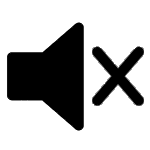
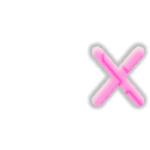
Updated Game Tile and Graphic, Updated Mute button and code to work more better. Also, Enemies have been removed from level1.

diff --git a/js/level1.js b/js/level1.js
@@ -1,5 +1,8 @@
 
 //declare a new state
+
+
+
 var Level1State = function(game) {
 };
 
@@ -7,21 +10,37 @@ var Level1State = function(game) {
  * Add game variables here
  *
  */
-
+var text;
+var graphics;
+var hsv;
+var timerEvents = [];
 
 /*
  * Create runs once only when Phaser first loads
  * create the game scene by adding objects to the stage
  */
+function create ()
+{
+    text = this.add.text(32, 32);
+
+    timerEvents.push(this.time.addEvent({ delay: 10000, loop: true }));
+
+    hsv = Phaser.Display.Color.HSVColorWheel();
+
+    graphics = this.add.graphics({ x: 240, y: 36 });
+}
 
 Level1State.prototype.create=function(){
+	// init the keys
+	escKey = game.input.keyboard.addKey(Phaser.Keyboard.ESC);
+	// background
 	this.background=game.add.sprite (0,0,"background");
 	this.background.width=game.width;
 	this.background.height=game.height;
-	
-		this.clouds=game.add.tileSprite(0,0,game.width,game.height,"clouds")
+	// clouds
+	this.clouds=game.add.tileSprite(0,0,game.width,game.height,"clouds")
 	this.clouds.y=game.height-this.clouds.height;
-	
+	// mountains
 	this.mountain1=game.add.tileSprite(0,0,game.width,game.height,"mountains1")
 	this.mountain1.y=game.height-this.mountain1.height;
 	this.mountain2=game.add.tileSprite(0,0,game.width,game.height,"mountains2")
@@ -56,7 +75,7 @@ Level1State.prototype.create=function(){
 	
 	Coins = game.add.group();
 	Platforms = game.add.group();
-	Enemies = game.add.group();
+	// Enemies = game.add.group();
 	InvisibleWalls = game.add.group();
 	Platforms1 = game.add.group();	
 	
@@ -71,7 +90,7 @@ Level1State.prototype.create=function(){
 	Level1releasePlatform33();
 		
 	
-	Level1releaseGroundEnemy ();
+	/// Level1releaseGroundEnemy ();
 	Level1releaseGroundCoin ();
 	Level1releaseGroundCoin2 ();
 	Level1releaseGroundCoin3 ();
@@ -86,6 +105,9 @@ Level1State.prototype.create=function(){
 	polarBearEat = this.game.add.audio('polarBearEat');
 	polarBearHurt = this.game.add.audio('polarBearHurt');	
 	polarBearHurt.volume = 0.1
+
+	// init the timer!
+	// Timer adapted from <https://phaser.io/examples/v3/view/time/multiple-timers#> //
 }
 
 
@@ -105,7 +127,7 @@ Level1releasePlatform2 = function(){
 	IW1.body.immovable=true;
 	IW1.body.velocity.x=-500;
 	
-		coin=game.add.sprite(3100,400, "goldCoin2");
+	coin=game.add.sprite(3100,400, "goldCoin2");
 	game.physics.arcade.enable(coin) ;
 	Coins.add(coin);
 //	coin.body.allowGravity=false;
@@ -131,7 +153,7 @@ Level1releasePlatform3 = function(){
 	IW2.body.immovable=true;
 	IW2.body.velocity.x=-500;
 	
-		coin2=game.add.sprite(4100,400, "goldCoin");
+	coin2=game.add.sprite(4100,400, "goldCoin");
 	game.physics.arcade.enable(coin2) ;
 	Coins.add(coin2);
 //	coin2.body.allowGravity=false;
@@ -159,12 +181,15 @@ Level1releasePlatform22 = function(){
 	IW3.body.immovable=true;
 	IW3.body.velocity.x=-500;
 	
-	enemy=game.add.sprite(6100,400, "enemy");
-	game.physics.arcade.enable(enemy) ;
-	Enemies.add(enemy);
-//	enemy.body.allowGravity=false;
-//	enemy.body.immovable=true;
-	enemy.body.velocity.y=500;
+	// removed enemy spawn //
+	
+	// enemy=game.add.sprite(6100,400, "enemy");
+	// game.physics.arcade.enable(enemy) ;
+	// Enemies.add(enemy);
+//	enemy.body.allowGravity=false; // this line was disabled in original source
+//	enemy.body.immovable=true; // this line was disabled in original source
+	// enemy.body.velocity.y=500;
+	//                     */
 }
 	
 Level1releasePlatform32 = function(){
@@ -183,24 +208,29 @@ Level1releasePlatform32 = function(){
 	IW4.body.immovable=true;
 	IW4.body.velocity.x=-500;
 	
-	enemy2=game.add.sprite(5000,400, "enemy2");
-	game.physics.arcade.enable(enemy2) ;
-	Enemies.add(enemy2);
-//	enemy2.body.allowGravity=false;
-//	enemy2.body.immovable=true;
-	enemy2.body.velocity.y=500;
+	// removed enemy spawn //
+
+	// enemy2=game.add.sprite(5000,400, "enemy2");
+	// game.physics.arcade.enable(enemy2) ;
+	// Enemies.add(enemy2);
+//	enemy2.body.allowGravity=false; // this line was disabled in original source
+//	enemy2.body.immovable=true; // this line was disabled in original source
+	// enemy2.body.velocity.y=500;
+	//** */
 }
 	
 
+	//** */
+	// Level1releaseGroundEnemy = function(){
+	// enemy4 = game.add.sprite(game.rnd.integerInRange(2500, 6000),925, "enemy4");
+	// game.physics.arcade.enable(enemy4) ;
+	// Enemies.add(enemy4);
+	// enemy4.body.allowGravity=false;
+	// enemy4.body.immovable=true;
+	// enemy4.body.velocity.x=-500;
+	// }
+	//** */
 	
-	Level1releaseGroundEnemy = function(){
-	enemy4 = game.add.sprite(game.rnd.integerInRange(2500, 6000),925, "enemy4");
-	game.physics.arcade.enable(enemy4) ;
-	Enemies.add(enemy4);
-	enemy4.body.allowGravity=false;
-	enemy4.body.immovable=true;
-	enemy4.body.velocity.x=-500;
-	}
 	
 	
 	
@@ -213,7 +243,7 @@ Level1releasePlatform32 = function(){
 	coin4.body.velocity.x=-500;
 	}
 
-		Level1releaseGroundCoin2 = function(){
+	Level1releaseGroundCoin2 = function(){
 	coin3 = game.add.sprite(game.rnd.integerInRange(2500, 6000),925, "goldCoin");
 	game.physics.arcade.enable(coin3) ;
 	Coins.add(coin3);
@@ -254,20 +284,25 @@ Level1releasePlatform32 = function(){
 	
 	Level1State.prototype.update=function()
 	{
-		if(score > 19){
+
+		
+
+
+		// win condition
+		if(score > 9){
 		startMenu2();
-	}
+		}
 		
 		game.physics.arcade.collide(player,Invisibleground); 
 		game.physics.arcade.overlap(player,Coins,null, this.onCollision,this);
 		game.physics.arcade.collide(player,Platforms); 
-				game.physics.arcade.collide(player,Platforms1);
-		game.physics.arcade.overlap(player,Enemies,null, this.playerHit,this);
+		game.physics.arcade.collide(player,Platforms1);
+		// game.physics.arcade.overlap(player,Enemies,null, this.playerHit,this);
 		game.physics.arcade.collide(Coins, Platforms); 
 		game.physics.arcade.collide(Coins, InvisibleWalls); 
 		game.physics.arcade.collide(coin,Invisibleground); 
-		game.physics.arcade.collide(Enemies, Platforms); 
-		game.physics.arcade.collide(Enemies, InvisibleWalls); 
+		// game.physics.arcade.collide(Enemies, Platforms); 
+		// game.physics.arcade.collide(Enemies, InvisibleWalls); 
 		
 		
 		player.body.velocity.x=0;
@@ -280,6 +315,7 @@ Level1releasePlatform32 = function(){
 		player.body.velocity.y=-2100
 		player.loadTexture('player')
 		};
+		if(escKey.isDown){startMain();} //exit game
 //		if else {player.loadTexture('player')};
 
 
@@ -294,22 +330,7 @@ Level1releasePlatform32 = function(){
 			platform3.destroy();
 			coin2.destroy();
 			Level1releasePlatform3();
-			}
-
-		
-		
-		
-			if (platform22.position.x <= -(game.rnd.integerInRange(1000, 3000))){
-			platform22.destroy();
-			enemy.destroy();
-			Level1releasePlatform22();
-			}
-			
-			if (platform32.position.x <= -(game.rnd.integerInRange(1000, 3000))){
-			platform32.destroy();
-			enemy2.destroy();
-			Level1releasePlatform32();
-			}
+			}			
 			
 			if (platform23.position.x <=-2050){
 			platform23.destroy();
@@ -323,12 +344,6 @@ Level1releasePlatform32 = function(){
 			Level1releasePlatform33();
 			}
 			
-			if (enemy4.position.x <= -2000){
-			enemy4.destroy();
-			Level1releaseGroundEnemy();
-			}
-	
-
 			if (coin4.position.x <= -1000){
 			coin4.destroy();
 			Level1releaseGroundCoin();

diff --git a/js/MainMenu.js b/js/MainMenu.js
@@ -2,11 +2,12 @@ var MainMenu = function(game) {
 };
 
 var clouds
+var muteState
 
 MainMenu.prototype.create = function() {
+  
 
-
-      	        //background
+      	//background
         //
         this.background=game.add.sprite(0,0,"background");
         this.background.width=game.width;
@@ -32,7 +33,6 @@ MainMenu.prototype.create = function() {
 		this.adventure = game.add.sprite(0,0,'adventure');
 	    this.adventure.width=game.width;
         this.adventure.height=game.height;
-	
 
 		
     ground = game.add.sprite(0, 1025, 'ground');
@@ -47,8 +47,8 @@ MainMenu.prototype.create = function() {
    player = game.add.sprite(600, 830, 'player');
 
 
-      //  initalise keyboard controls.
-		enterKey = game.input.keyboard.addKey(Phaser.Keyboard.ENTER);
+  //  initalise keyboard controls.
+	enterKey = game.input.keyboard.addKey(Phaser.Keyboard.ENTER);
      
 
 //	music1.stop();
@@ -56,16 +56,33 @@ MainMenu.prototype.create = function() {
 //	music3.stop();
 //	musicComplete.stop();
 	musicIntro = this.game.add.audio('intro');
-    musicIntro.play();
+  musicIntro.play();
 	musicIntro.volume = 0.1
 
 //	soundButton
-   button = game.add.button(game.world.centerX - -1000, 000, 'muteButton', actionOnClick, this, 2, 1, 0);
+// button = game.add.button(game.world.centerX - -1000, 000, 'muteButton', actionOnClick, this, 2, 1, 0);
+  muteState=game.add.sprite(game.world.centerX - -1000, 000,"mute");
+  muteState.visible = false;
+  button = game.add.button(game.world.centerX - -1000, 000, 'muteButton', actionOnClick, this, 2, 1, 0);
 
-//    button.onInputOver.add(over, this);
- //   button.onInputOut.add(out, this);
-  //  button.onInputUp.add(up, this);
+  button.onInputOver.add(over, this);
+  button.onInputOut.add(out, this);
+  button.onInputUp.add(up, this);
 }
+
+function up() {
+  console.log('button up', arguments);
+}
+
+function over() {
+  console.log('mute');
+}
+
+function out() {
+  console.log('button out');
+}
+
+
 
 
 /*
@@ -83,10 +100,11 @@ if (enterKey.isDown)
     this.game.state.start('Menu1');
   }
   function actionOnClick () {
-
+    muteState.visible =! muteState.visible;
      if (!this.game.sound.mute) {
         this.game.sound.mute = true
 		 } else {
-		 this.game.sound.mute = false;}
+		 this.game.sound.mute = false;
+    }
  
 }

diff --git a/js/preload.js b/js/preload.js
@@ -28,7 +28,7 @@ PreloadState.prototype.preload = function() {
 	game.load.image('goldCoin2', "images/goldCoin2.png");
 	game.load.image('goldCoin3', "images/goldCoin3.png");
 	game.load.image('goldCoin4', "images/goldCoin4.png");
-		game.load.image('goldCoin5', "images/goldCoin5.png");
+	game.load.image('goldCoin5', "images/goldCoin5.png");
 	game.load.image('ground', "images/ground.png");
 	game.load.image('ground1', "images/ground1.png")
 	game.load.image('ground2', "images/ground2.png")
